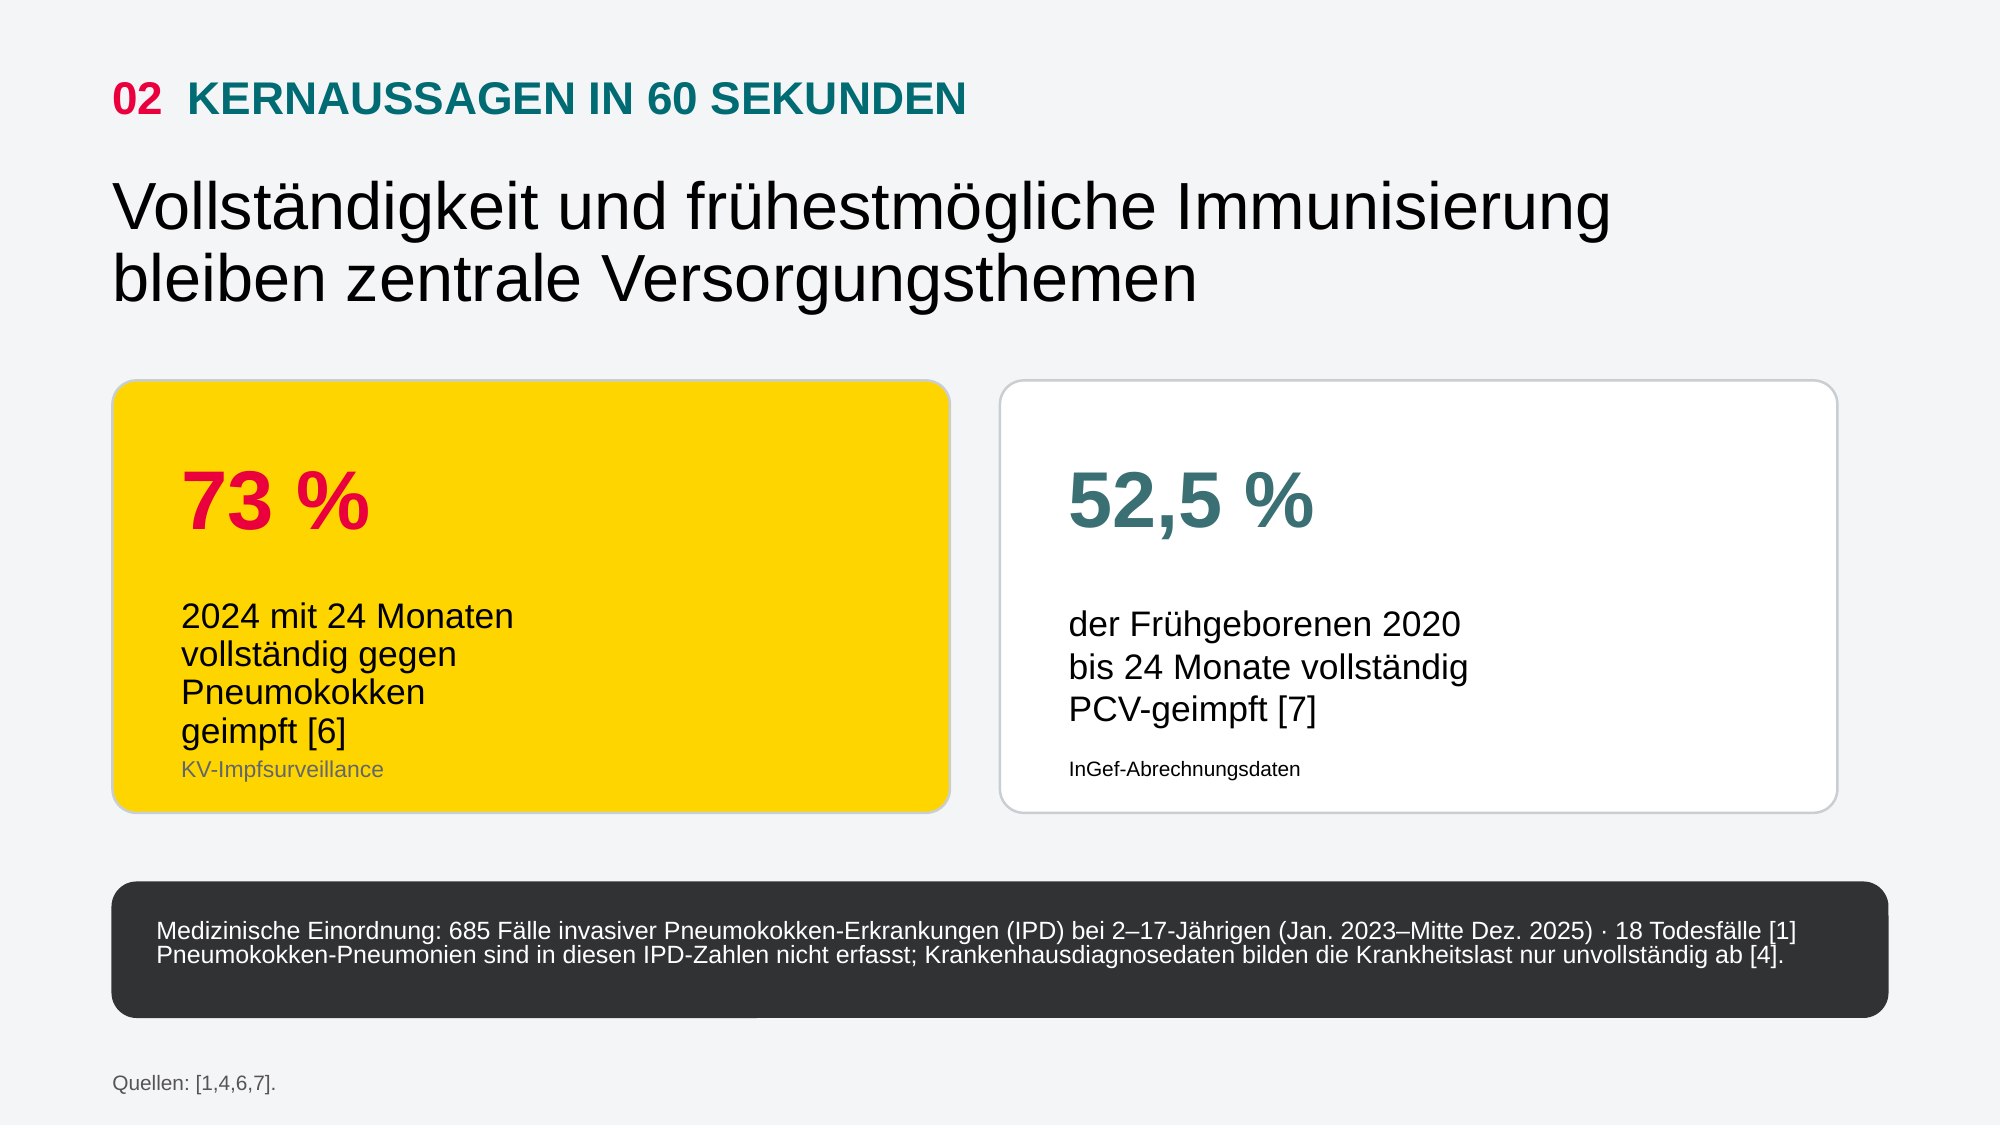
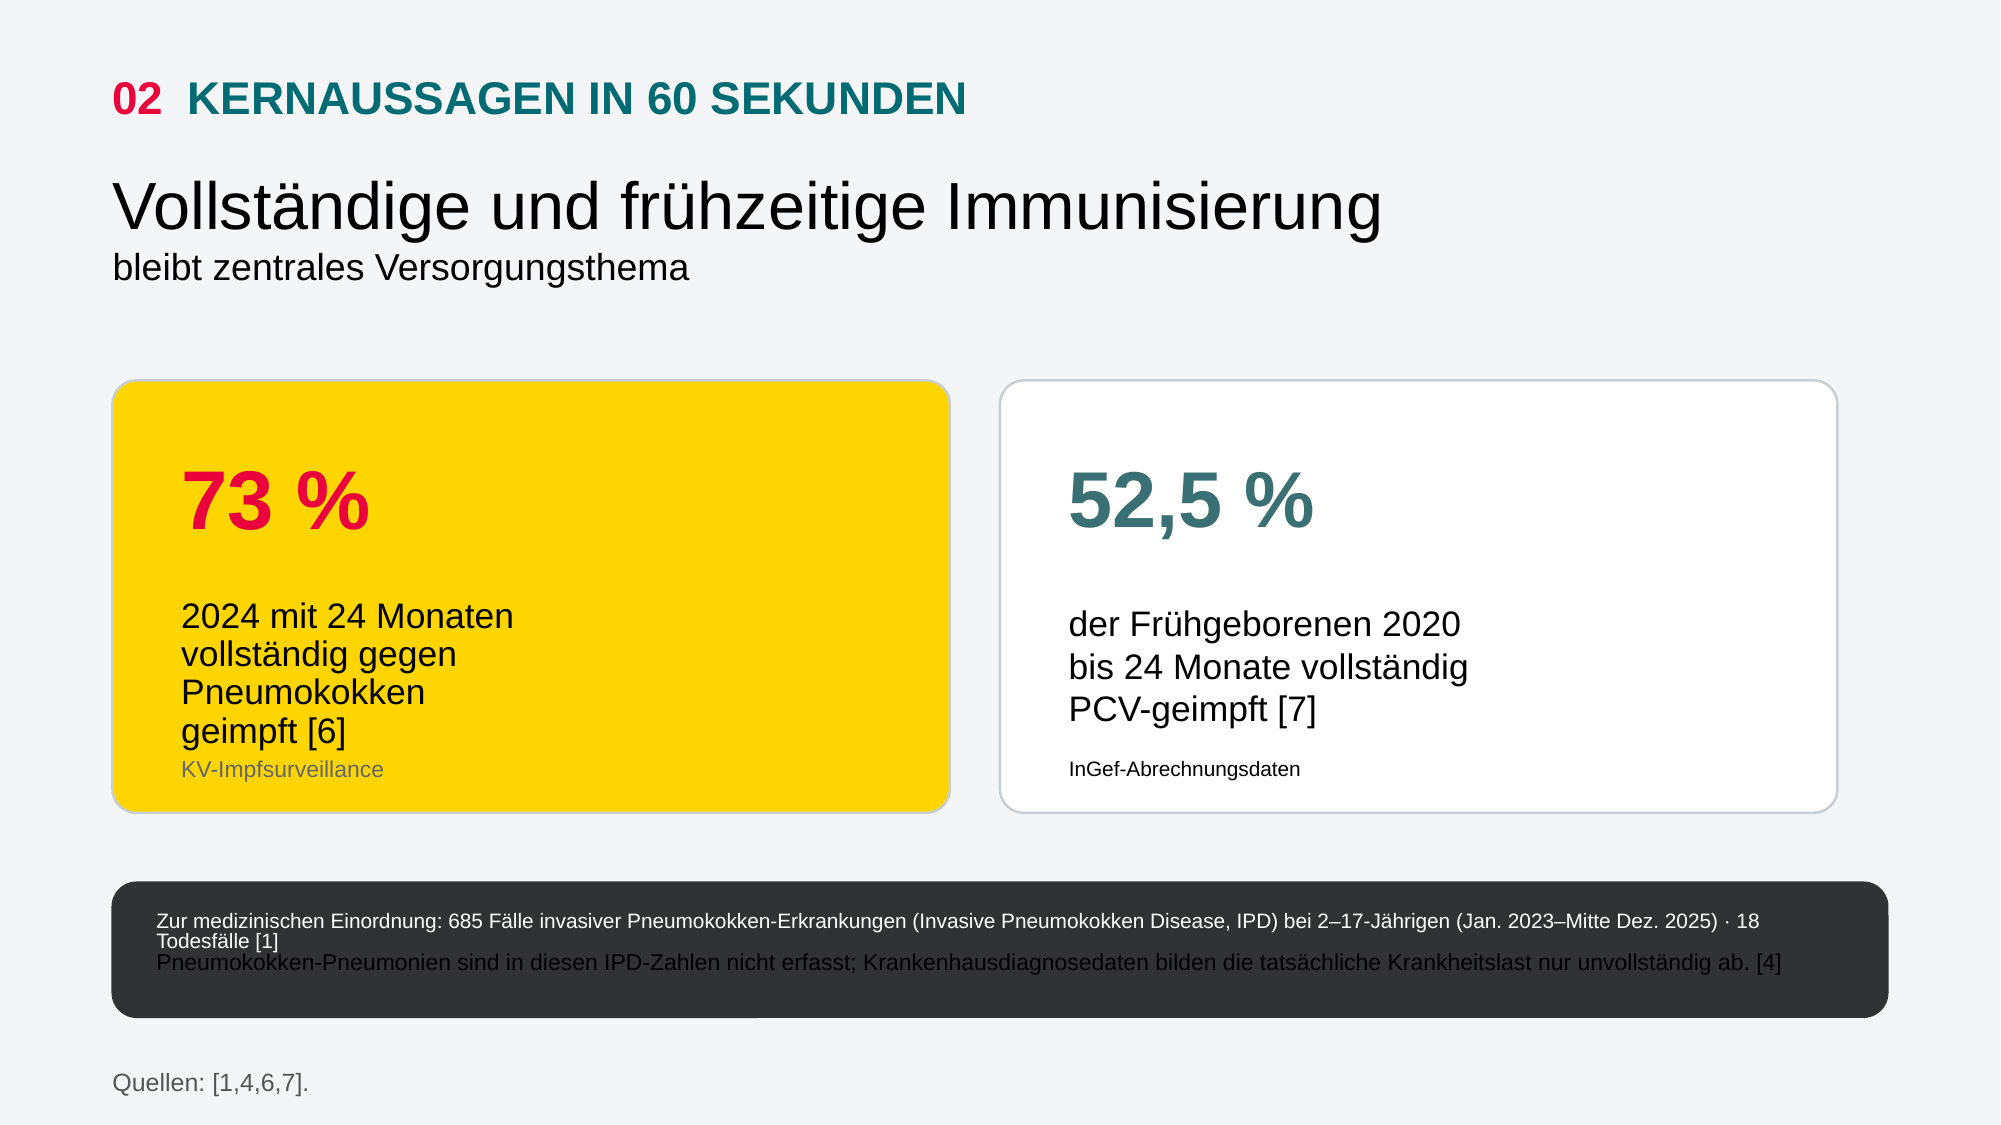
2026-09-16_pneumokokken-update-kinder_v0.22_Pfizer

Changed region(s): [[0.062, 0.1556, 0.8056, 0.28], [0.062, 0.8089, 0.8986, 0.8711], [0.062, 0.9333, 0.1549, 0.9956]]

diff --git a/src/project.js b/src/project.js
@@ -18,6 +18,9 @@
  * v0.19: PDF-Layout-Fix für CME-Hinweis und saubere, blockweise Quellen-Paginierung.
  * v0.21: Austausch der Grafikbasis auf die feinbearbeitete Look-&-Feel-Version; gewünschte Anpassungen
  *        in den Grafiken 02, 04, 05, 08 und 10 auf Basis des aktualisierten Grafik-Pakets umgesetzt.
+ * v0.22: Nachkorrekturen umgesetzt: aktualisierte Einstiegs- und Kernaussagen-Texte,
+ *        animierte Kennzahlen, hervorgehobene Versorgungslücke, Risikogruppen-Karten,
+ *        bereinigter STIKO-Hinweis, runde Workflow-Ziffern sowie Grafik-Update 02/04.
  * v0.20: Umsetzung der Pfizer-Feinabstimmung vom 16.09.2026: Wording zur frühestmöglichen Immunisierung,
  *        KPI-Fokussierung, neutralisierte Serotypen-/Impfstoffdarstellung, Praxis-Hervorhebungen und bereinigte Referenzen.
  *        sauberere Seitenumbrüche, klickbare Quellen und aktualisierte Impressumsdaten im PDF.
@@ -42,7 +45,7 @@ export const project = {
     analyticsPage: "med-i-scroll-pneumokokken-update-kinder", // Legacy-Alias
     analyticsChapter1: "paediatrie-impfpraevention", // Legacy-Alias
     projectId: "pneumokokken-update-kinder",
-    contentVersion: "v0.21",
+    contentVersion: "v0.22",
     analytics: {
       page: "med.i.scroll | Pneumokokken-Impfung bei Kindern",
       pageType: "Microsite",
@@ -155,7 +158,7 @@ export const project = {
       tone: "dark",
       align: "left",
       kind: "hero",
-      quote: "Bei der Pneumokokken-Impfung bestehen weiterhin Lücken bei der vollständigen und frühestmöglichen Immunisierung. [6,7]",
+      quote: "Bei der Pneumokokken-Impfung bestehen weiterhin Lücken hinsichtlich einer vollständigen und möglichst frühzeitigen Immunisierung. [6,7]",
       attribution: "Redaktion Gelbe Liste"
     },
     {
@@ -163,7 +166,7 @@ export const project = {
       number: "02",
       nav: "Kernaussagen",
       kicker: "Kernaussagen in 60 Sekunden",
-      title: "Vollständigkeit und frühestmögliche Immunisierung bleiben zentrale Versorgungsthemen",
+      title: "Vollständige und frühzeitige Immunisierung bleibt zentrales Versorgungsthema",
       subtitle: "Impfquoten, Risikoprofil und Krankheitslast gemeinsam in die Versorgung einordnen.",
       background: "/assets/backgrounds/02_keyfacts_pneumokokken-bg.jpg",
       inlineImage: "/assets/images/02_keyfacts_ipd.png",
@@ -179,9 +182,9 @@ export const project = {
         { value: "73 %", label: "der Kinder waren 2024 im Alter von 24 Monaten vollständig gegen Pneumokokken geimpft [6]" },
         { value: "52,5 %", label: "der Frühgeborenen der Geburtskohorte 2020 hatten bis 24 Monate eine vollständige PCV-Impfserie erhalten [7]" }
       ],
-      quote: "Eine vollständige und frühestmögliche Immunisierung bleibt ein zentrales Versorgungsziel. [6,7]",
+      quote: "Eine vollständige und möglichst frühzeitige Immunisierung bleibt ein zentrales Versorgungsziel. [6,7]",
       bullets: [
-        "Zur medizinischen Einordnung: 685 gemeldete Fälle invasiver Pneumokokken-Erkrankungen (IPD) bei 2–17-Jährigen von Januar 2023 bis Mitte Dezember 2025 [1]",
+        "Zur medizinischen Einordnung: 685 gemeldete Fälle invasiver Pneumokokken-Erkrankungen (Invasive Pneumokokken Disease, IPD) bei 2–17-Jährigen von Januar 2023 bis Mitte Dezember 2025 [1]",
         "18 Todesfälle im genannten Meldezeitraum [1]",
         "Pneumokokken-Pneumonien sind in diesen IPD-Zahlen nicht erfasst. Krankenhausdiagnosedaten bilden die tatsächliche Krankheitslast nur unvollständig ab. [4]",
         "Kinder mit definierten Risikofaktoren tragen ein deutlich erhöhtes Risiko für invasive Pneumokokken-Erkrankungen. [1]",
@@ -229,7 +232,7 @@ export const project = {
       zoomable: true,
       paragraphs: [
         "Pneumokokken weisen eine große Serotypenvielfalt auf. Impfprogramme können die Serotypenverteilung beeinflussen: Erkrankungen durch abgedeckte Serotypen können tendenziell zurückgehen, während andere Serotypen relativ an Bedeutung gewinnen. Eine kontinuierliche Surveillance ist deshalb erforderlich. [8]",
-        "In den deutschen Meldedaten 2023–2025 lag für 104 IPD-Fälle bei 2–17-Jährigen eine Serotypangabe vor. 50 % entfielen auf PCV13-Serotypen; Serotyp 3 war mit 24 % der häufigste einzelne Serotyp. Wegen der kleinen Fallzahlen ist die Interpretation mit Vorsicht vorzunehmen. [1]",
+        "In den deutschen Meldedaten 2023–2025 lag für 104 Fälle invasiver Pneumokokken-Erkrankungen (Invasive Pneumokokken Disease, IPD) bei 2–17-Jährigen eine Serotypangabe vor. 50 % entfielen auf PCV13-Serotypen; Serotyp 3 war mit 24 % der häufigste einzelne Serotyp. Wegen der kleinen Fallzahlen ist die Interpretation mit Vorsicht vorzunehmen. [1]",
         "Eine 2026 publizierte bundesweite Surveillanceanalyse für 2017–2024 zeigt bei Kindern und Jugendlichen <18 Jahren eine dynamische Serotypenverteilung. Serotyp 3 persistierte über den Beobachtungszeitraum und bleibt damit ein relevantes Beispiel für die Notwendigkeit kontinuierlicher Surveillance. [8]",
         "Serotypenverteilungen und theoretisch impfpräventable Anteile sind epidemiologische Kenngrößen. Sie sind nicht mit klinischer Impfstoffwirksamkeit gleichzusetzen und ersetzen nicht die alters- und indikationsspezifische STIKO-Empfehlung. [1,2,8]"
       ],
@@ -252,7 +255,7 @@ export const project = {
       long: true,
       zoomable: true,
       paragraphs: [
-        "Für die Standardimpfung gegen Pneumokokken im Säuglingsalter empfiehlt die STIKO einen Pneumokokken-Konjugatimpfstoff und kein bestimmtes Impfstoffprodukt; PCV13 und PCV15 können für die Grundimmunisierung eingesetzt werden. [2,4]",
+        "Für die Standardimpfung gegen Pneumokokken im Säuglingsalter empfiehlt die STIKO einen Pneumokokken-Konjugatimpfstoff und keinen bestimmten Impfstoff; PCV13 und PCV15 können für die Grundimmunisierung eingesetzt werden. [2,4]",
         "PCV13 umfasst die Serotypen 1, 3, 4, 5, 6A, 6B, 7F, 9V, 14, 18C, 19A, 19F und 23F. PCV15 enthält diese 13 Serotypen sowie zusätzlich 22F und 33F. [4,9]",
         "Die STIKO bewertet den zusätzlichen Nutzen von PCV15 gegenüber PCV13 unter Berücksichtigung der Serotypenverteilung als gering; für die Standardimpfung werden beide Impfstoffe ohne Produktpräferenz eingesetzt. [4]",
         "Für Kinder und Jugendliche von 2 bis einschließlich 17 Jahren mit definierten Risikofaktoren gilt seit 2026 eine eigene STIKO-Indikationsimpfung mit PCV20. [1,2]"
@@ -279,9 +282,9 @@ export const project = {
         "Für die Standardimpfung im Säuglingsalter empfiehlt die STIKO PCV13 oder PCV15. Gesunde reifgeborene Säuglinge werden im 2+1-Schema im Alter von 2, 4 und 11 Monaten geimpft. PCV20 ist derzeit nicht Bestandteil der STIKO-Standardimpfung im Säuglingsalter. [2,3]",
         "Frühgeborene vor vollendeter 37. Schwangerschaftswoche erhalten eine zusätzliche Dosis im Alter von 3 Monaten und werden im 3+1-Schema im Alter von 2, 3, 4 und 11 Monaten geimpft. [2]",
         "Noch nicht gegen Pneumokokken geimpfte Kinder im Alter von ≥12 bis <24 Monaten erhalten zur Nachholimpfung zwei Dosen im Abstand von mindestens 8 Wochen. [2]",
-        "Die Versorgungslücke bleibt relevant: 2024 waren im Alter von 24 Monaten 73 % der Kinder vollständig gegen Pneumokokken geimpft. In einer retrospektiven InGef-Abrechnungsdatenanalyse lag die vollständige PCV-Impfquote bei Frühgeborenen der Geburtskohorte 2020 bei 52,5 %. [6,7]",
         "Werden Impftermine versäumt oder verschoben, sollte der Impfstatus beim nächsten geeigneten Kontakt geprüft und die fehlende Impfung entsprechend der aktuellen STIKO-Empfehlung nachgeholt werden. [2,6]"
       ],
+      highlight: "Die Versorgungslücke bleibt relevant: 2024 waren im Alter von 24 Monaten 73 % der Kinder vollständig gegen Pneumokokken geimpft. In einer retrospektiven InGef-Abrechnungsdatenanalyse lag die vollständige PCV-Impfquote bei Frühgeborenen der Geburtskohorte 2020 bei 52,5 %. [6,7]",
       quote: "Eine vollständige und frühestmögliche Impfserie ist ein zentrales Qualitätsziel der Impfversorgung. [6,7]"
     },
     {
@@ -352,9 +355,10 @@ export const project = {
       long: true,
       zoomable: true,
       paragraphs: [
-        "Kinder und Jugendliche mit bestimmten Risikofaktoren tragen ein erhöhtes Risiko für invasive Pneumokokken-Erkrankungen. Die STIKO unterscheidet drei Gruppen von Risikofaktoren. [1,2]",
+        "Kinder und Jugendliche mit bestimmten Risikofaktoren tragen ein erhöhtes Risiko für invasive Pneumokokken-Erkrankungen (Invasive Pneumokokken Disease, IPD). Die STIKO unterscheidet drei Gruppen von Risikofaktoren. [1,2]",
         "Für die praktische Impfplanung sind neben der zugrunde liegenden STIKO-Indikation insbesondere Alter, dokumentierter Impfstatus, Therapie beziehungsweise Immunsuppression sowie gegebenenfalls geplante Interventionen zu berücksichtigen."
       ],
+      numberedVariant: "cards",
       numbered: [
         "Angeborene oder erworbene Immundefekte beziehungsweise Immunsuppression.",
         "Sonstige chronische Krankheiten mit erhöhter Gefährdung für Pneumokokken-Infektionen.",
@@ -384,9 +388,9 @@ export const project = {
       zoomable: true,
       paragraphs: [
         "Seit Januar 2026 empfiehlt die STIKO für Kinder und Jugendliche im Alter von 2 bis einschließlich 17 Jahren mit definierten Risikofaktoren PCV20 als Indikationsimpfung. Die alleinige Anwendung von PPSV23 beziehungsweise das bisherige sequenzielle Schema wird für diese Gruppe nicht mehr empfohlen. [1,2]",
-        "Etwa 70 % der IPD-Fälle bei 2- bis 17-jährigen Kindern und Jugendlichen werden Serotypen zugeordnet, die in PCV20 enthalten sind. Die aktualisierte Empfehlung vereinfacht zugleich die bisherige sequenzielle Impfstrategie. [1]"
+        "Etwa 70 % der Fälle invasiver Pneumokokken-Erkrankungen (Invasive Pneumokokken Disease, IPD) bei 2- bis 17-jährigen Kindern und Jugendlichen werden Serotypen zugeordnet, die in PCV20 enthalten sind. Die aktualisierte Empfehlung vereinfacht zugleich die bisherige sequenzielle Impfstrategie. [1]"
       ],
-      highlight: "Praxishinweis: Ungeimpfte Risikokinder erhalten PCV20. Nach mindestens einer früheren Dosis PCV13 oder PCV15 soll PCV20 im Abstand von 1 Jahr erfolgen. Nach früherer PPSV23-Impfung beziehungsweise früherem sequenziellen Schema gilt grundsätzlich ein Abstand von 6 Jahren; bei ausgeprägter Immundefizienz kann bereits nach 1 Jahr mit PCV20 geimpft werden. [1,2]",
+      highlight: "Ungeimpfte Risikokinder erhalten PCV20. Nach mindestens einer früheren Dosis PCV13 oder PCV15 soll PCV20 im Abstand von 1 Jahr erfolgen. Nach früherer PPSV23-Impfung beziehungsweise früherem sequenziellen Schema gilt grundsätzlich ein Abstand von 6 Jahren; bei ausgeprägter Immundefizienz kann bereits nach 1 Jahr mit PCV20 geimpft werden. [1,2]",
       paragraphsAfter: [
         "Die Umsetzung der aktualisierten Empfehlung in der Schutzimpfungs-Richtlinie ist seit dem 14.04.2026 in Kraft. [5]"
       ],

diff --git a/src/components/StatsContent.jsx b/src/components/StatsContent.jsx
@@ -1,5 +1,91 @@
+import { useEffect, useMemo, useRef, useState } from "react";
 import ContentCard from "./ContentCard";
 import InlineGraphic from "./InlineGraphic";
+
+function parseStatValue(value) {
+  const normalized = String(value ?? "").trim();
+  const match = normalized.match(/^([\d.,]+)(.*)$/);
+  if (!match) return null;
+
+  const rawNumber = match[1];
+  const suffix = match[2] || "";
+  const decimals = rawNumber.includes(",") ? rawNumber.split(",")[1].length : (rawNumber.includes(".") ? rawNumber.split(".")[1].length : 0);
+  const numericValue = Number(rawNumber.replace(".", "").replace(",", "."));
+
+  if (Number.isNaN(numericValue)) return null;
+  return { numericValue, decimals, suffix };
+}
+
+function formatAnimatedValue(parsed, value) {
+  if (!parsed) return value;
+  const rendered = parsed.numericValue.toFixed(parsed.decimals).replace(".", ",");
+  return `${rendered}${parsed.suffix}`;
+}
+
+function AnimatedStatValue({ value }) {
+  const ref = useRef(null);
+  const frameRef = useRef(0);
+  const hasAnimatedRef = useRef(false);
+  const parsed = useMemo(() => parseStatValue(value), [value]);
+  const [isVisible, setIsVisible] = useState(false);
+  const [displayValue, setDisplayValue] = useState(() => {
+    if (!parsed) return value;
+    return `${(0).toFixed(parsed.decimals).replace(".", ",")}${parsed.suffix}`;
+  });
+
+  useEffect(() => {
+    const element = ref.current;
+    if (!element) return undefined;
+
+    const observer = new IntersectionObserver(
+      (entries) => {
+        if (entries.some((entry) => entry.isIntersecting)) {
+          setIsVisible(true);
+          observer.disconnect();
+        }
+      },
+      { threshold: 0.35 }
+    );
+
+    observer.observe(element);
+    return () => observer.disconnect();
+  }, []);
+
+  useEffect(() => {
+    if (!parsed || !isVisible || hasAnimatedRef.current) {
+      if (!parsed) setDisplayValue(value);
+      return undefined;
+    }
+
+    hasAnimatedRef.current = true;
+    const duration = 1400;
+    const start = performance.now();
+
+    const tick = (now) => {
+      const progress = Math.min(1, (now - start) / duration);
+      const eased = 1 - Math.pow(1 - progress, 3);
+      const current = parsed.numericValue * eased;
+      const rendered = current.toFixed(parsed.decimals).replace(".", ",");
+      setDisplayValue(`${rendered}${parsed.suffix}`);
+      if (progress < 1) frameRef.current = requestAnimationFrame(tick);
+      else setDisplayValue(formatAnimatedValue(parsed, value));
+    };
+
+    frameRef.current = requestAnimationFrame(tick);
+    return () => cancelAnimationFrame(frameRef.current);
+  }, [isVisible, parsed, value]);
+
+  return <strong ref={ref}>{displayValue}</strong>;
+}
+
+function StatTile({ stat }) {
+  return (
+    <div className="stat-tile">
+      <AnimatedStatValue value={stat.value} />
+      <span>{stat.label}</span>
+    </div>
+  );
+}
 
 export default function StatsContent({ page, onOpenGraphic }) {
   const hasInlineGraphic = Boolean(page.inlineImage);
@@ -9,7 +95,7 @@ export default function StatsContent({ page, onOpenGraphic }) {
       <p className="page-kicker">{page.kicker}</p>
       <h2 className="mega-stat">{page.title}</h2>
       {page.subtitle && <p className="page-subtitle">{page.subtitle}</p>}
-      {page.stats?.length > 0 && <div className="stat-grid">{page.stats.map((stat,index)=><div className="stat-tile" key={`${stat.value}-${index}`}><strong>{stat.value}</strong><span>{stat.label}</span></div>)}</div>}
+      {page.stats?.length > 0 && <div className="stat-grid">{page.stats.map((stat, index) => <StatTile stat={stat} key={`${stat.value}-${index}`} />)}</div>}
       {page.quote && <blockquote className="editorial-quote">{page.quote}</blockquote>}
       {page.bullets?.length > 0 && <div className="country-grid">{page.bullets.map((item,index)=><span key={index}>{item}</span>)}</div>}
 

diff --git a/src/styles.css b/src/styles.css
@@ -184,6 +184,35 @@ h1, h2, h3, p { text-wrap: pretty; }
 .editorial-list--numbered { padding-left: 1.6rem; }
 .editorial-list--numbered li::marker { font-weight: 900; color: var(--yellow); }
 .story-page--light .editorial-list--numbered li::marker { color: var(--yellow); text-shadow: 0 0 0 #111; }
+
+.editorial-list--numbered-cards {
+  list-style: none;
+  counter-reset: risk-card-counter;
+  padding-left: 0;
+  margin-top: 18px;
+}
+
+.editorial-list--numbered-cards li {
+  counter-increment: risk-card-counter;
+  position: relative;
+  margin: 0 0 14px;
+  padding: 16px 18px 16px 58px;
+  background: rgba(255, 220, 0, 0.28);
+  border-radius: 18px;
+}
+
+.editorial-list--numbered-cards li::before {
+  content: counter(risk-card-counter) ".";
+  position: absolute;
+  left: 18px;
+  top: 16px;
+  color: #111;
+  font-weight: 900;
+}
+
+.story-page--light .editorial-list--numbered-cards li {
+  background: rgba(255, 220, 0, 0.35);
+}
 .editorial-quote { margin: 25px 0 0; padding: 16px 20px; border-left: 4px solid var(--yellow); background: rgba(255,255,255,.08); font-size: clamp(1rem,1.35vw,1.15rem); font-weight: 700; line-height: 1.45; }
 .story-page--light .editorial-quote { background: rgba(17,17,17,.055); }
 .text-block + .text-block { margin-top: 21px; padding-top: 4px; border-top: 1px solid currentColor; border-color: rgba(128,128,128,.28); }
@@ -1815,6 +1844,7 @@ button.secondary-cta {
   color: #111;
   font-weight: 900;
   font-size: 1.25rem;
+  border-radius: 50%;
 }
 
 .workflow-slide h3 {

diff --git a/src/components/StandardContent.jsx b/src/components/StandardContent.jsx
@@ -14,6 +14,8 @@ function Quote({ children }) {
 
 export default function StandardContent({ page, onOpenGraphic, pageName }) {
   const hasInlineGraphic = Boolean(page.inlineImage);
+  const numberedClasses = ["editorial-list", "editorial-list--numbered"];
+  if (page.numberedVariant === "cards") numberedClasses.push("editorial-list--numbered-cards");
 
   return (
     <ContentCard wide={Boolean(page.wide || hasInlineGraphic)}>
@@ -34,7 +36,7 @@ export default function StandardContent({ page, onOpenGraphic, pageName }) {
       {page.highlight && <div className="important-note"><RichText>{page.highlight}</RichText></div>}
       {page.heading && <h3>{page.heading}</h3>}
       {page.bullets && <ul className="editorial-list">{page.bullets.map((item, index) => <li key={index}><RichText>{item}</RichText></li>)}</ul>}
-      {page.numbered && <ol className="editorial-list editorial-list--numbered">{page.numbered.map((item, index) => <li key={index}><RichText>{item}</RichText></li>)}</ol>}
+      {page.numbered && <ol className={numberedClasses.join(" ")}>{page.numbered.map((item, index) => <li key={index}><RichText>{item}</RichText></li>)}</ol>}
       {page.paragraphsAfter?.map((paragraph, index) => <p key={`after-${index}`}><RichText>{paragraph}</RichText></p>)}
 
       {page.accordionItems ? (

diff --git a/UPDATE-2026-09-16-v0.22_Nachkorrekturen.md b/UPDATE-2026-09-16-v0.22_Nachkorrekturen.md
@@ -1,0 +1,35 @@
+# Update v0.22 – Nachkorrekturen (16.09.2026)
+
+Umgesetzt in dieser Version:
+
+1. Kapitel **Pneumokokken-Impfung**
+   - Einstiegstext auf „vollständige und möglichst frühzeitige Immunisierung" angepasst.
+
+2. Kapitel **Kernaussagen**
+   - Headline und Kernaussagen-Wording angepasst.
+   - KPI-Kacheln als hochzählende Kennzahlen umgesetzt.
+   - Ergänzung: 18 Todesfälle im Meldezeitraum.
+   - Hinweis zu nicht erfassten Pneumokokken-Pneumonien / unvollständiger Krankheitslast ergänzt.
+   - Grafik 02 aktualisiert.
+
+3. Kapitel **Serotypen im Wandel**
+   - Grafiktext „Ökologischer Druck" in „Selektionsdruck" geändert.
+
+4. Kapitel **Impfstoffe & Serotypen**
+   - Textkorrektur auf „und keinen bestimmten Impfstoff" umgesetzt.
+
+5. Kapitel **Standardimpfung**
+   - Versorgungslücken-Absatz als gelb hervorgehobener Kasten umgesetzt.
+
+6. Kapitel **Risikogruppen**
+   - Dreier-Block als hellgelbe Karten mit schwarzer Nummerierung gestaltet.
+
+7. Kapitel **STIKO 2026**
+   - Wort „Praxishinweis:" entfernt.
+
+8. Kapitel **Praxis-Workflow**
+   - Ziffern im Slider als Kreise umgesetzt.
+
+Zusätzlich:
+- bearbeitbare Grafikdatei als `Pneumokokken_Grafiken_bearbeitbar_v0.22.pptx` aktualisiert
+- aktualisierte PNG-Grafiken im Projektpaket ersetzt
